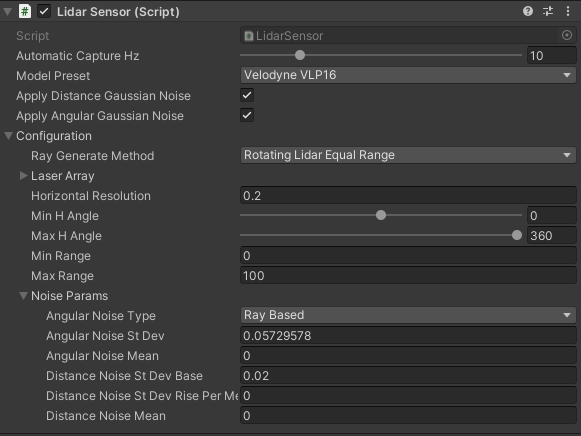
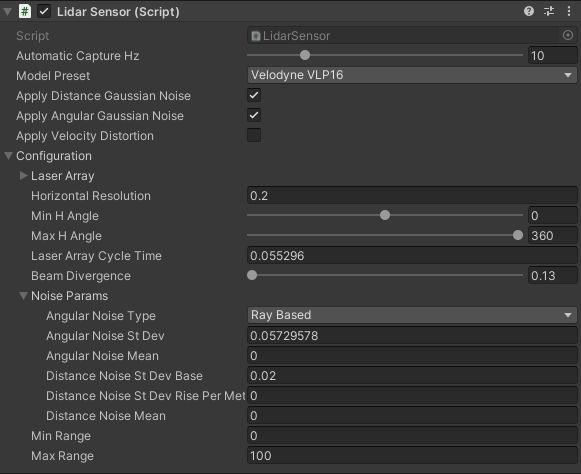
Update documentation

diff --git a/docs/Components/Sensors/LiDARSensor/LiDARSensor/index.md b/docs/Components/Sensors/LiDARSensor/LiDARSensor/index.md
@@ -35,16 +35,18 @@ Assets/AWSIM/Prefabs/RobotecGPULidars/*
 
 The table of available prefabs can be found below:
 
-| LiDAR                 | Path                     | Appearance                                        |
-| :-------------------- | :----------------------- | :------------------------------------------------ |
-| *HESAI Pandar40P*     | `HesaiPandar40P.prefab`  | <img src=imgs_prefabs/pandar40p.png width=150px>  |
-| *HESAI PandarQT64*    | `HesaiPandarQT64.prefab` | <img src=imgs_prefabs/pandarqt.png width=150px>   |
-| *HESAI PandarXT32*    | `HesaiPandarXT32.prefab` | <img src=imgs_prefabs/pandarxt32.png width=150px> |
-| *HESAI AT128 E2X*     | `HesaiAT128E2X.prefab`   | <img src=imgs_prefabs/at128e2x.png width=150px>   |
-| *Ouster OS1-64*       | `OusterOS1-64.prefab`    | <img src=imgs_prefabs/os1-64.png width=150px>     |
-| *Velodyne VLP-16*     | `VelodyneVLP16.prefab`   | <img src=imgs_prefabs/vlp16.png width=150px>      |
-| *Velodyne VLC-32C*    | `VelodyneVLP32C.prefab`  | <img src=imgs_prefabs/vlp32.png width=150px>      |
-| *Velodyne VLS-128-AP* | `VelodyneVLS128.prefab`  | <img src=imgs_prefabs/vls128.png width=150px>     |
+| LiDAR                 | Path                       | Appearance                                          |
+| :-------------------- | :-----------------------   | :------------------------------------------------   |
+| *HESAI Pandar40P*     | `HesaiPandar40P.prefab`    | <img src=imgs_prefabs/pandar40p.png width=150px>    |
+| *HESAI PandarQT64*    | `HesaiPandarQT64.prefab`   | <img src=imgs_prefabs/pandarqt.png width=150px>     |
+| *HESAI PandarXT32*    | `HesaiPandarXT32.prefab`   | <img src=imgs_prefabs/pandarxt32.png width=150px>   |
+| *HESAI QT128C2X*      | `HesaiQT128C2X.prefab`     | <img src=imgs_prefabs/qt1238c2x.png width=150px>    |
+| *HESAI Pandar128E4X*  | `HesaiPandar128E4X.prefab` | <img src=imgs_prefabs/pandar128e4x.png width=150px> |
+| *HESAI AT128 E2X*     | `HesaiAT128E2X.prefab`     | <img src=imgs_prefabs/at128e2x.png width=150px>     |
+| *Ouster OS1-64*       | `OusterOS1-64.prefab`      | <img src=imgs_prefabs/os1-64.png width=150px>       |
+| *Velodyne VLP-16*     | `VelodyneVLP16.prefab`     | <img src=imgs_prefabs/vlp16.png width=150px>        |
+| *Velodyne VLC-32C*    | `VelodyneVLP32C.prefab`    | <img src=imgs_prefabs/vlp32.png width=150px>        |
+| *Velodyne VLS-128-AP* | `VelodyneVLS128.prefab`    | <img src=imgs_prefabs/vls128.png width=150px>       |
 
 ### Link in the default Scene
 ![link](link.png)
@@ -89,13 +91,6 @@ The pipeline consists of:
 - removing non-hits from the result point cloud,
 - transforming point cloud to sensor frame coordinate system.
 
-`LidarSensor` provides public methods to extend this pipeline with additional `RGL` nodes.
-In this way, other components can request point cloud processing operations and receive data in the desired format.
-
-`LidarSensor` component in the output provides 3 types of data.
-Two of them: *rosPCL24* and *rosPCL48* are point clouds that are published by the [*RglLidarPublisher*](#rgl-lidar-publisher-script) component.
-Whereas vector *onlyHits* is used for visualization by the [*PointCloudVisualization*](#point-cloud-visualization-script) component.
-
 #### Elements configurable from the editor level
 - `Automatic Capture Hz` - the rate of sensor processing (default: `10Hz`)
 - `Model Preset` - allows selecting one of the built-in *LiDAR* models (default: `RangeMeter`)
@@ -103,16 +98,12 @@ Whereas vector *onlyHits* is used for visualization by the [*PointCloudVisualiza
 - `Apply Angular Gaussian Noise` - enable/disable angular *Gaussian* noise (default: `true`)
 - `Apply Velocity Distortion` - enable/disable velocity distortion (default: `false`)
 - *Configuration*:
-    - `Ray Generate Method` - method that lidar's rays are generated:
-        1. `Rotating Lidar Equal Range` - rays are generated for rotating lidar with equal range for all of the lasers (described with `Min Range` and `Max Range`)
-        2. `Rotating Lidar Different Laser Ranges` - rays are generated for rotating lidar with different ranges for the lasers (described in `Laser Array`)
-        3. `Hesai AT128` - rays are generated in specific way to Hesai AT128 lidar
     - `Laser Array` - geometry description of lidar's array of lasers, should be prepared on the basis of the manual for a given model of *LiDAR* (default: loaded from `LaserArrayLibrary`)
     - `Horizontal Resolution` - the horiontal resolution of laser array firings
     - `Min H Angle` - minimum horizontal angle, left (default: `0`)
     - `Max H Angle` - maximum horizontal angle, right (default: `0`)
-    - `Min Range` - minimum range of the sensor (applied when `Ray Generate Method` is `Rotating Lidar Equal Range`)
-    - `Max Range` - maximum range of the sensor (applied when `Ray Generate Method` is `Rotating Lidar Equal Range`)
+    - `Laser Array Cycle Time` - time between two consecutive firings of the whole laser array in milliseconds (default: `0`); used for velocity distortion feature.
+    - `Beam Divergence` - represents the deviation of photons from a single beam emitted by a LiDAR sensor (in degrees); used for simulating snow only (private feature).
     - *Noise Params*: 
         - `Angular Noise Type` - angular noise type<br>(default: `Ray Based`)
         - `Angular Noise St Dev` - angular noise standard deviation in degree<br>(default: `0.05729578`)
@@ -120,13 +111,30 @@ Whereas vector *onlyHits* is used for visualization by the [*PointCloudVisualiza
         - `Distance Noise St Dev Base` - distance noise standard deviation base in meters<br>(default: `0.02`)
         - `Distance Noise Rise Per Meter` - distance noise standard deviation rise per meter<br>(default: `0`)
         - `Distance Noise Mean` - distance noise mean in meters<br>(default: `0`)
+    - *Additional options (available for some Lidar Model Preset)*
+        - `Min Range` - minimum range of the sensor (if not avaiable, the range is different for each laser in `Laser Array`)
+        - `Max Range` - maximum range of the sensor (if not avaiable, the range is different for each laser in `Laser Array`)
+        - `High Resolution Mode Enabled` - whether to activate high resolution mode (available for `Hesai Pandar 128E4X` LiDAR model)
 
 #### Output Data
-|  Category  |    Type    | Description                                                                               |
-| :--------: | :--------: | :---------------------------------------------------------------------------------------- |
-| *onlyHits* | Vector3[ ] | Vertices for visualization in *Unity's* coordinate system                                 |
-| *rosPCL24* |  byte[ ]   | Vertices for publishing *Autoware* format pointcloud in *ROS2* coordinate system          |
-| *rosPCL48* |  byte[ ]   | Vertices for publishing extended *Autoware* format pointcloud in *ROS2* coordinate system |
+`LidarSensor` provides public methods to extend this pipeline with additional `RGL` nodes.
+In this way, other components can request point cloud processing operations and receive data in the desired format.
+
+Example of how to get XYZ point cloud data:
+
+1. To obtain point cloud data from another component you have to create a new `RGLNodeSequence` with RGL node to yield XYZ field and connect it to `LidarSensor`:
+   ```cs
+   rglOutSubgraph = new RGLNodeSequence().AddNodePointsYield("OUT_XYZ", RGLField.XYZ_F32);
+   lidarSensor = GetComponent<LidarSensor>();
+   lidarSensor.ConnectToWorldFrame(rglOutSubgraph); // you can also connect to Lidar frame using ConnectToLidarFrame
+   // You can add a callback to receive a notification when new data is ready
+   lidarSensor.onNewData += HandleLidarDataMethod;
+   ```
+1. To get data from `RGLNodeSequence` call `GetResultData`:
+   ```cs
+   Vector3[] xyz = new Vector3[0];
+   rglOutSubgraph.GetResultData<Vector3>(ref xyz);
+   ```
 
 ## Rgl Lidar Publisher (script)
 ![script_ros2](script_ros2.png)
@@ -207,7 +215,7 @@ To ensure the publication of the information described in this section, *GameObj
 Point cloud containing intensity is published on the *ROS2* topic via `RglLidarPublisher` component. The intensity value is stored in the `intensity` field of the `sensor_msgs/PointCloud2` message.
 
 ### Instance segmentation
-`RGL Unity Plugin` allows assigning an ID to *GameObjects* to produce a point cloud containing information about hit objects. It can be used for instance/semantic segmentation tasks.
+`RGL Unity Plugin` allows assigning an ID to *GameObjects* to produce a point cloud containing information about hit objects. It can be used for instance/semantic segmentation tasks. [This](../ReadMaterialInformation/#add-id-assignment) tutorial describes how to do it.
 
 !!! note "LidarInstanceSegmentationDemo"
     If you would like to see how `LidarInstanceSegmentationDemo` works using `RGL` or run some tests, we encourage you to familiarize yourself with this [section](../../../../ProjectGuide/Scenes/#rgl-test-scenes).

diff --git a/docs/Components/Sensors/LiDARSensor/AddNewLiDAR/index.md b/docs/Components/Sensors/LiDARSensor/AddNewLiDAR/index.md
@@ -45,13 +45,11 @@ To add a new *LiDAR* model, perform the following steps:
             - `minRange` - minimum range of the laser (set if lasers have different ranges)
             - `maxRange` - maximum range of the laser (set if lasers have different ranges)
 
-    1. To define a new laser distribution create a new entry to the `LaserArrayLibrary.cs`
+    1. To define a new laser distribution create a new class in the `LaserArrayLibrary.cs`
 
         ![lidar_array](img/LidarLaserArray.png)
 
-        1. Add a new public static instance of `LaserArray` with the definition.
-
-        1. Add a new item to the `ByModel` dictionary that collects *LiDAR* model enumerations with their laser array definitions.
+        - Add a new public static instance of `LaserArray` with the definition.
 
         In this example, `NewLidarModel` laser distribution consists of 5 lasers with
         
@@ -68,17 +66,17 @@ To add a new *LiDAR* model, perform the following steps:
 
     ![lidar_configuration](img/LidarConfiguration.png)
 
-    1. Add a new public static instance of `LidarConfiguration` with the definition:
+    1. Add a new public static instance of `BaseLidarConfiguration` choosing one of the implementations:
 
-        - `laserArray` - laser distribution array created in the previous step (it could be also generated uniformly with `LaserArray.Uniform()`)
-        - `horizontalResolution` - horizontal resolution of laser array firings in degrees (laser array will be rotated according to this resolution)
-        - `laserArrayCycleTime` - time between two consecutive firings of the whole laser array in milliseconds. Usually, it consists of firing time for all the lasers and recharge time. Skip this parameter if all of the rays are fired at the same time.
-        - `minHAngle` - minimum horizontal angle of the *LiDAR*
-        - `maxHAngle` - maximum horizontal angle of the *LiDAR*
-        - `noiseParams` - *LiDAR* noise parameters (see `LidarNoiseParams.cs` for more details)
-        - `rayGenerateMethod` - if *LiDAR* has equal range for all of the lasers choose `RotatingLidarEqualRange` and configure `minRange` and `maxRange` in the `LidarConfiguration`. Otherwise, choose `RotatingLidarDifferentLaserRanges` and define ranges in `LaserArray`.
-        - `minRange` - minimum range of the sensor (applied when `Ray Generate Method` is `Rotating Lidar Equal Range`)
-        - `maxRange` - maximum range of the sensor (applied when `Ray Generate Method` is `Rotating Lidar Equal Range`)
+        - `UniformRangeLidarConfiguration` - lidar configuration for uniformly distributed rays along the horizontal axis with a uniform range for all the rays (it contains `minRange` and `maxRange` parameters additionally)
+        - `LaserBasedRangeLidarConfiguration` - lidar configuration for uniformly distributed rays along the horizontal axis with ranges retrieved from lasers description
+        - *Or create your custom implementations in `LidarConfiguration.cs` like:*
+            - `HesaiAT128LidarConfiguration`
+            - `HesaiQT128C2XLidarConfiguration`
+            - `HesaiPandar128E4XLidarConfiguration`
+
+        !!! note "Lidar configuration parameters descrition"
+            Please refer to [this section](../LiDARSensor/#elements-configurable-from-the-editor-level) for the detailed description of all configuration parameters.
 
     1. Add a new item to the `ByModel` dictionary that collects *LiDAR* model enumerations with their *LiDAR* configurations.
 
